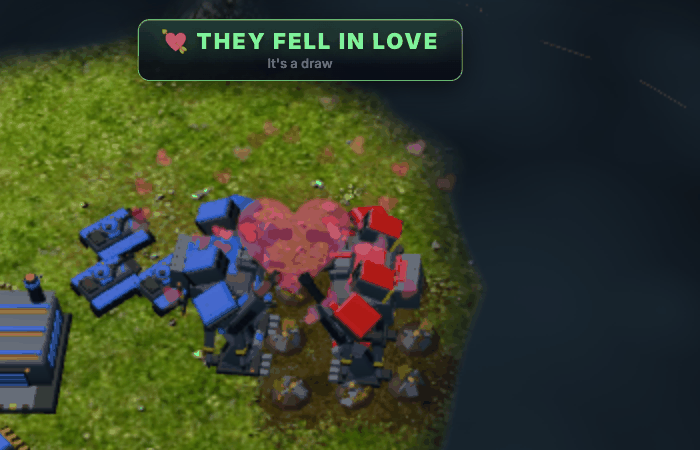
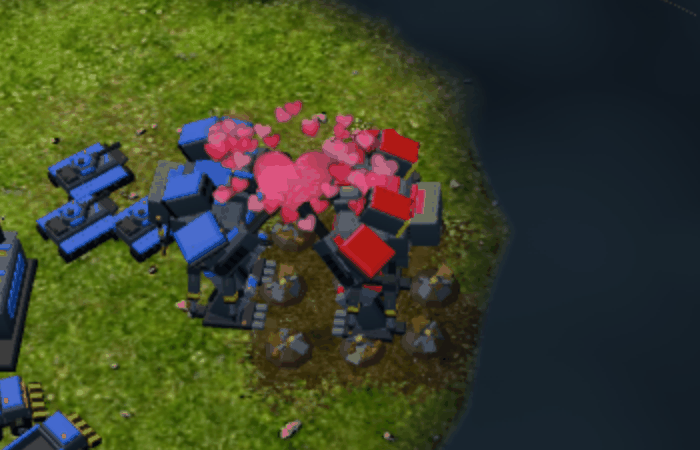
Progress shots: the Gantry's rollout in game, Robot Love's heart burst
Claude-Session: https://claude.ai/code/session_01MYEP2tbCGeRAnxTUNbD3wL

diff --git a/tools/models.ts b/tools/models.ts
@@ -310,7 +310,9 @@ stage.rig.bounds = { x0: -100, y0: -100, x1: 100, y1: 100 };
 const pitch = q.get("pitch");
 if (pitch !== null) stage.rig.pitchFor = () => THREE.MathUtils.degToRad(Number(pitch));
 stage.rig.zoom = Number(q.get("zoom") ?? 46);
-stage.rig.centerOn(Number(q.get("x") ?? 7), Number(q.get("y") ?? 4));
+// (the Goliath and Gantry line-ups open centred on themselves; an icon on the model)
+const home = only === "goliath" ? [16, 2] : only === "gantry" ? [9, 1.5] : only === "icon" ? [0, 0] : [7, 4];
+stage.rig.centerOn(Number(q.get("x") ?? home[0]), Number(q.get("y") ?? home[1]));
 let last = performance.now();
 const loop = () => {
   const t = performance.now();

diff --git a/progress-shots/goliath/README.md b/progress-shots/goliath/README.md
@@ -20,4 +20,6 @@ Grounds, Chromium headless with SwiftShader. All taken 2026-10-12.
 | `gantry-stages.png` | The Gantry's six stages: empty (crane parked), foundation (legs bolted to the cradle, crane working), frame (hips and torso skeleton, a plate coming down), armament (plated, cannons and mortars on), finishing (head on, eye dark), rollout (arms swung clear, the Goliath stepping off). |
 | `gantry-stages-red.png` | The same six stages for red: its Goliath faces north, the way red's walk out. |
 | `gantry-ingame-frame.png` | In game, a Gantry at the frame stage: the crane lowering an armour plate onto the torso skeleton, floor lights on. |
-| `robot-love.png` | Robot Love: the two Goliaths met, eyes pink, hearts bubbling out of them and a big heart between them, the draw banner. |
+| `gantry-rollout.png` | In game: finishing (head on, eye dark, crane parked), rollout (scaffold arms swung clear, the Goliath stepping off the cradle), walked off (the Gantry empty again, its arms swinging back). |
+| `robot-love.png` | Robot Love: the two Goliaths have walked to meet, arms reaching out, a burst of hearts between them. |
+| `robot-love-banner.png` | A moment later: the big heart fading, hearts still bubbling up, the draw banner. |
